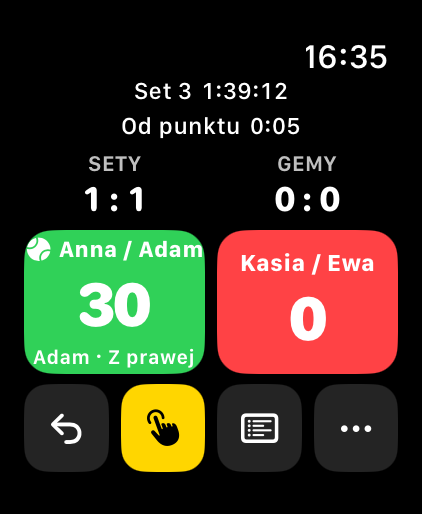
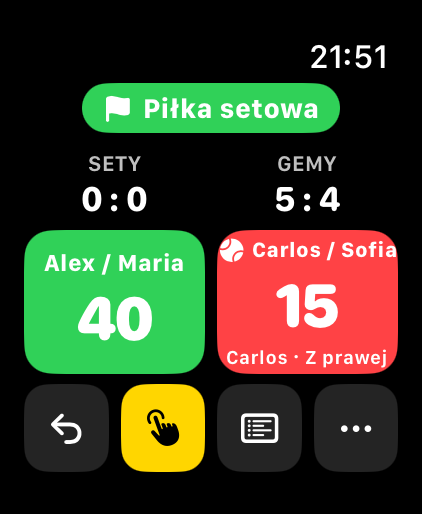
Show English screenshots on the website in English
From mlodylbn/padelscore-app@6983de3

diff --git a/index.html b/index.html
@@ -106,8 +106,8 @@
       </p>
     </div>
     <div class="devices">
-      <div class="phone"><img src="assets/iphone-score.jpg" width="506" height="1100" alt="Ekran meczu w Tapazo na iPhonie: Alex / Maria 40, Carlos / Sofia 15, gemy 5:4, piłka setowa"></div>
-      <div class="watch"><img src="assets/watch-score.png" width="422" height="514" alt="Tapazo na Apple Watch: wynik i przycisk Double Tap"></div>
+      <div class="phone"><img src="assets/iphone-score.jpg" width="506" height="1100" alt="Ekran meczu w Tapazo na iPhonie: Alex / Maria 40, Carlos / Sofia 15, gemy 5:4, piłka setowa" data-en="assets/en/iphone-score.jpg" data-alt-en="Tapazo match screen on iPhone: Alex / Maria 40, Carlos / Sofia 15, games 5:4, set point"></div>
+      <div class="watch"><img src="assets/watch-score.png" width="422" height="514" alt="Tapazo na Apple Watch: wynik i przycisk Double Tap" data-en="assets/en/watch-score.png" data-alt-en="Tapazo on Apple Watch: score and the Double Tap button"></div>
     </div>
   </div>
 </div>
@@ -215,11 +215,11 @@
     </div>
     <div class="watches reveal">
       <figure>
-        <div class="watch"><img src="assets/watch-score.png" loading="lazy" width="422" height="514" alt="Ekran wyniku z przyciskiem Double Tap"></div>
+        <div class="watch"><img src="assets/watch-score.png" loading="lazy" width="422" height="514" alt="Ekran wyniku z przyciskiem Double Tap" data-en="assets/en/watch-score.png" data-alt-en="Score screen with the Double Tap button"></div>
         <figcaption><span lang="pl">Gotowy na gest</span><span lang="en">Ready for a gesture</span></figcaption>
       </figure>
       <figure>
-        <div class="watch"><img src="assets/watch-doubletap.png" loading="lazy" width="422" height="514" alt="Żółty przycisk: zegarek czeka na drugi gest"></div>
+        <div class="watch"><img src="assets/watch-doubletap.png" loading="lazy" width="422" height="514" alt="Żółty przycisk: zegarek czeka na drugi gest" data-en="assets/en/watch-doubletap.png" data-alt-en="Yellow button: the watch is waiting for a second gesture"></div>
         <figcaption><span lang="pl">Czeka na drugi gest</span><span lang="en">Waiting for a second gesture</span></figcaption>
       </figure>
     </div>
@@ -260,42 +260,42 @@
     </div>
     <div class="gallery">
       <figure class="shot reveal">
-        <div class="frame"><img src="assets/iphone-home.jpg" loading="lazy" width="506" height="1100" alt="Menu startowe Tapazo z trwającym meczem"></div>
+        <div class="frame"><img src="assets/iphone-home.jpg" loading="lazy" width="506" height="1100" alt="Menu startowe Tapazo z trwającym meczem" data-en="assets/en/iphone-home.jpg" data-alt-en="Tapazo home screen with a match in progress"></div>
         <figcaption><span lang="pl">Start</span><span lang="en">Start</span>
           <span><span lang="pl">Mecz, profil, gracze i&nbsp;historia</span><span lang="en">Match, profile, players and history</span></span></figcaption>
       </figure>
       <figure class="shot reveal">
-        <div class="frame"><img src="assets/iphone-score.jpg" loading="lazy" width="506" height="1100" alt="Ekran meczu z piłką setową"></div>
+        <div class="frame"><img src="assets/iphone-score.jpg" loading="lazy" width="506" height="1100" alt="Ekran meczu z piłką setową" data-en="assets/en/iphone-score.jpg" data-alt-en="Match screen with a set point"></div>
         <figcaption><span lang="pl">Mecz</span><span lang="en">Match</span>
           <span><span lang="pl">Wynik, serwis i&nbsp;piłka setowa</span><span lang="en">Score, serve and set point</span></span></figcaption>
       </figure>
       <figure class="shot reveal">
-        <div class="frame"><img src="assets/iphone-change-ends.jpg" loading="lazy" width="506" height="1100" alt="Odliczanie czasu na zmianę stron"></div>
+        <div class="frame"><img src="assets/iphone-change-ends.jpg" loading="lazy" width="506" height="1100" alt="Odliczanie czasu na zmianę stron" data-en="assets/en/iphone-change-ends.jpg" data-alt-en="Change of ends countdown"></div>
         <figcaption><span lang="pl">Zmiana stron</span><span lang="en">Change ends</span>
           <span><span lang="pl">Odliczanie przerwy i&nbsp;zmiany stron</span><span lang="en">A countdown for breaks and ends</span></span></figcaption>
       </figure>
       <figure class="shot reveal">
-        <div class="frame"><img src="assets/iphone-rules.jpg" loading="lazy" width="506" height="1100" alt="Zasady meczu: mecz towarzyski, turniejowy lub Americano"></div>
+        <div class="frame"><img src="assets/iphone-rules.jpg" loading="lazy" width="506" height="1100" alt="Zasady meczu: mecz towarzyski, turniejowy lub Americano" data-en="assets/en/iphone-rules.jpg" data-alt-en="Match rules: friendly, tournament or Americano"></div>
         <figcaption><span lang="pl">Zasady</span><span lang="en">Rules</span>
           <span><span lang="pl">Towarzyski, turniejowy lub Americano</span><span lang="en">Friendly, tournament or Americano</span></span></figcaption>
       </figure>
       <figure class="shot reveal">
-        <div class="frame"><img src="assets/iphone-history.jpg" loading="lazy" width="506" height="1100" alt="Historia meczów z podsumowaniem i kartami meczów"></div>
+        <div class="frame"><img src="assets/iphone-history.jpg" loading="lazy" width="506" height="1100" alt="Historia meczów z podsumowaniem i kartami meczów" data-en="assets/en/iphone-history.jpg" data-alt-en="Match history with a summary and match cards"></div>
         <figcaption><span lang="pl">Historia</span><span lang="en">History</span>
           <span><span lang="pl">Podsumowanie, filtr i&nbsp;eksport</span><span lang="en">Summary, filter and export</span></span></figcaption>
       </figure>
       <figure class="shot reveal">
-        <div class="frame"><img src="assets/iphone-profile.jpg" loading="lazy" width="506" height="1100" alt="Profil gracza z poziomem, informacjami o grze i statystykami"></div>
+        <div class="frame"><img src="assets/iphone-profile.jpg" loading="lazy" width="506" height="1100" alt="Profil gracza z poziomem, informacjami o grze i statystykami" data-en="assets/en/iphone-profile.jpg" data-alt-en="Player profile with level, playing details and statistics"></div>
         <figcaption><span lang="pl">Profil</span><span lang="en">Profile</span>
           <span><span lang="pl">Poziom, styl gry i&nbsp;statystyki</span><span lang="en">Level, playing style and statistics</span></span></figcaption>
       </figure>
       <figure class="shot reveal">
-        <div class="frame"><img src="assets/iphone-stats.jpg" loading="lazy" width="506" height="1100" alt="Statystyki meczu, wykres przebiegu i grafika z wynikiem"></div>
+        <div class="frame"><img src="assets/iphone-stats.jpg" loading="lazy" width="506" height="1100" alt="Statystyki meczu, wykres przebiegu i grafika z wynikiem" data-en="assets/en/iphone-stats.jpg" data-alt-en="Match statistics and match flow chart"></div>
         <figcaption><span lang="pl">Statystyki</span><span lang="en">Statistics</span>
           <span><span lang="pl">Breaki, serwis i&nbsp;przebieg meczu</span><span lang="en">Breaks, serve and match flow</span></span></figcaption>
       </figure>
       <figure class="shot reveal">
-        <div class="frame card-img"><img src="assets/share-card.jpg" loading="lazy" width="720" height="900" alt="Grafika z wynikiem meczu do udostępnienia"></div>
+        <div class="frame card-img"><img src="assets/share-card.jpg" loading="lazy" width="720" height="900" alt="Grafika z wynikiem meczu do udostępnienia" data-en="assets/en/share-card.jpg" data-alt-en="Shareable match result image"></div>
         <figcaption><span lang="pl">Udostępnij</span><span lang="en">Share</span>
           <span><span lang="pl">Gotowa grafika na Instagram i&nbsp;WhatsApp</span><span lang="en">A ready image for Instagram and WhatsApp</span></span></figcaption>
       </figure>

diff --git a/assets/site.js b/assets/site.js
@@ -14,6 +14,13 @@
     });
     var title = document.querySelector('meta[name="title-' + lang + '"]');
     if (title) document.title = title.content;
+    // Screenshots show the app in the page language.
+    document.querySelectorAll('img[data-en]').forEach(function (img) {
+      if (!img.dataset.pl) { img.dataset.pl = img.getAttribute('src'); img.dataset.altPl = img.alt; }
+      var en = lang === 'en';
+      img.setAttribute('src', en ? img.dataset.en : img.dataset.pl);
+      img.alt = en ? img.dataset.altEn : img.dataset.altPl;
+    });
   }
 
   var hash = location.hash.slice(1);
